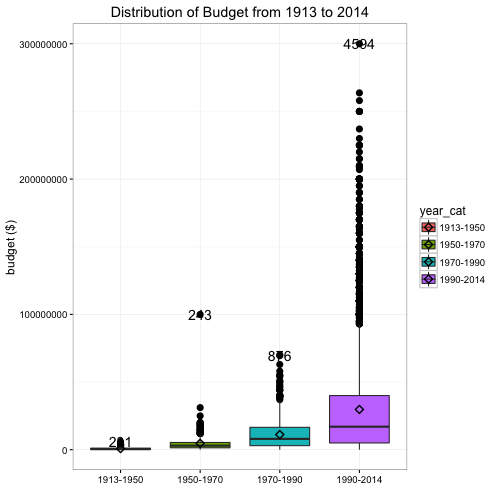
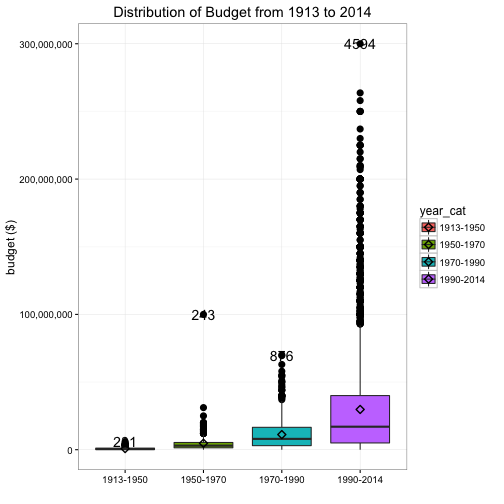
update boxplot

diff --git a/manuscript/03-03-boxplot.md b/manuscript/03-03-boxplot.md
@@ -29,7 +29,6 @@ We see a general pattern of budget increase, however, it seems the details are t
 A>
 ```r
 table(films$year_cat)
-
 1913-1950 1950-1970 1970-1990 1990-2014 
       231       243       876      4594 
 ```
@@ -37,29 +36,22 @@ table(films$year_cat)
 A>
 ```r
 p = plt("year_cat", "budget", ylab="budget ($)", main=title)
-print(p)
-```
-
-![Distribution of Budget Over the Years](images/boxplot_bt_vs_year_cat_p1-1.png) 
-
-Note that without applying any scale transformations on the y-axis, its tick labels are expressed in scientific notations by default, which makes it difficult to read. We can apply the comma scale to the y-axis to display the numbers in 000,000 format.
-
-A>
-```r
+# apply comma scale to the y-axis to display the numbers in 000,000 format
 scale_axis(p, "y", scale = "comma")
 ```
 
-![Distribution of Budget Over the Years](images/boxplot_bt_vs_year_cat_p2-1.png) 
+![Distribution of Budget Over the Years](images/boxplot_bt_vs_year_cat_p1-1.png) 
 
 Observe that all the boxes are squashed down, indicating `budget` is heavily right-skewed. We can use the function `scale_axis()` to apply the log10 scale on the y-axis.
 
 A>
 ```r
+# change y-axis to log10 scale
 p = scale_axis(p, scale = "log10")
 print(p)
 ```
 
-![Distribution of Budget Over the Years](images/boxplot_bt_vs_year_cat_p3-1.png) 
+![Distribution of Budget Over the Years](images/boxplot_bt_vs_year_cat_p2-1.png) 
 
 Finally, we can use color-blind friendly colors to color the boxes.
 
@@ -73,7 +65,7 @@ p = p + ggplot2::scale_fill_manual(values = c(red, green, purple, blue))
 print(p)
 ```
 
-![Distribution of Budget Over the Years](images/boxplot_bt_vs_year_cat_p4-1.png) 
+![Distribution of Budget Over the Years](images/boxplot_bt_vs_year_cat_p3-1.png) 
 
 Notice the numbers at the top of each boxplot, they are the sizes of the x-variable groups. For example, there are 231 films released between 1913 and 1950, and 4594 films released between 1990 and 2014. Yes, the ezplot function is smart enough to tally these numbers and display them on the plot. This is very handy. Now, it's your turn. Try the following exercises.
 
